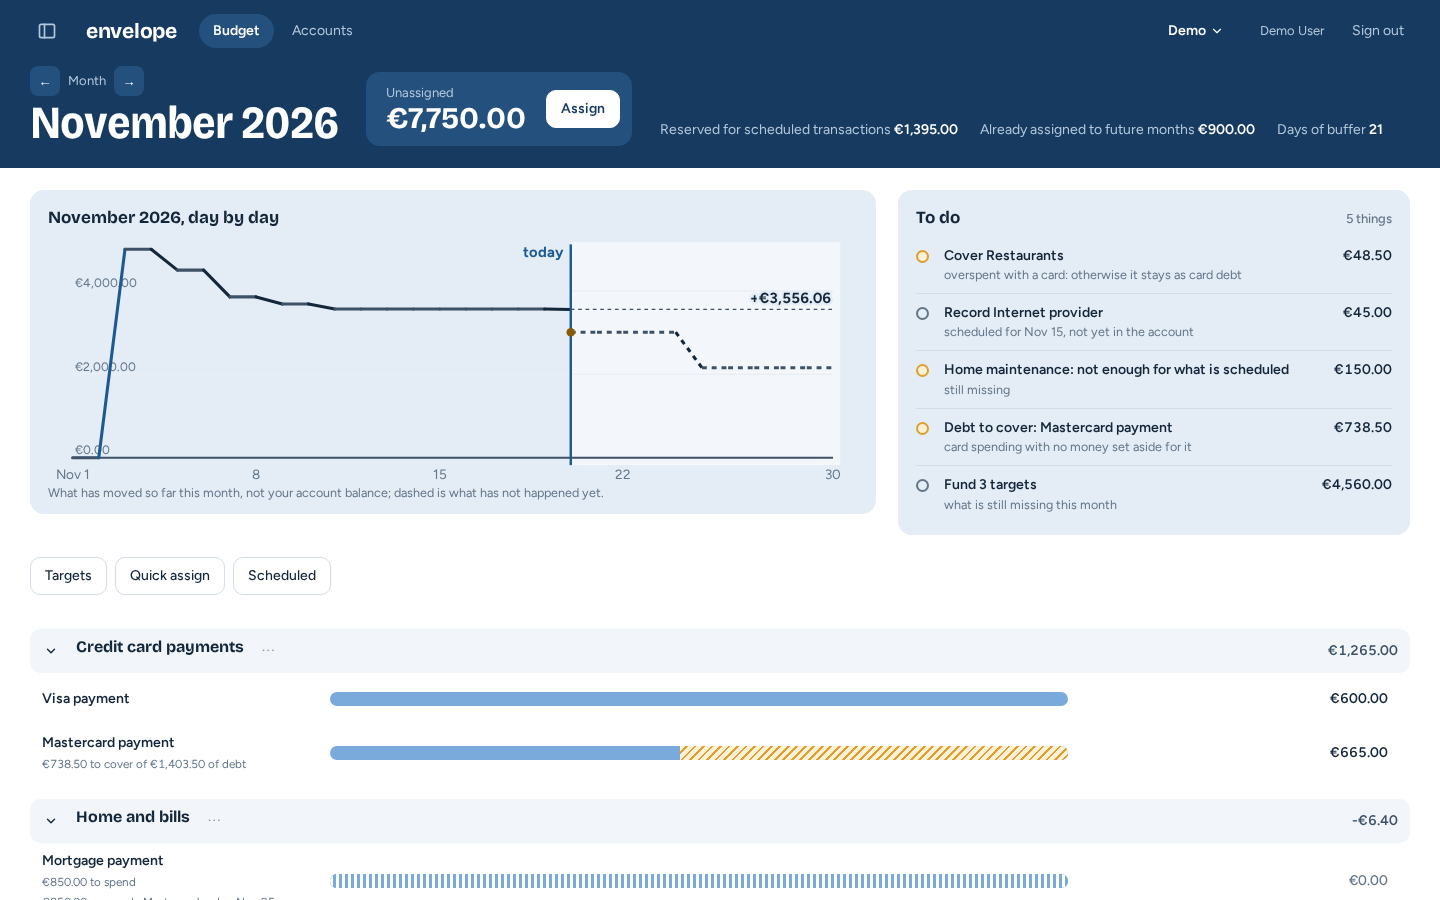
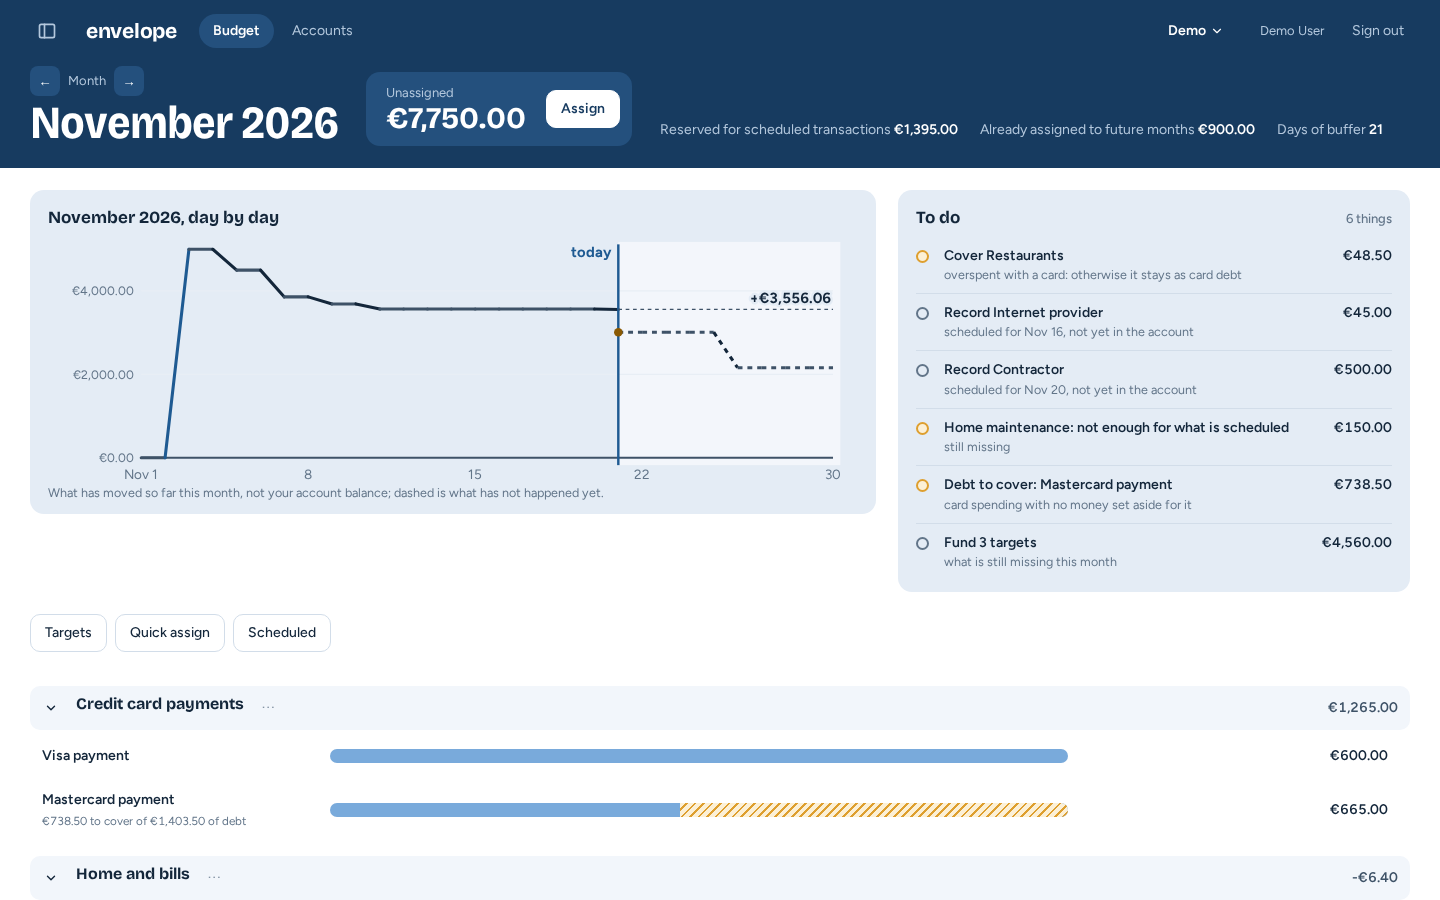
fix(web): keep the trend line's value labels clear of the plot
The running-total timeline drew its amount labels inside the plot, at
its left edge, so the line, the gridlines and the "future" ground ran
over them. computeTimeline now reserves a gutter left of the plot in
full mode and reports where the labels end (valueLabelX); the labels
sit there, right-aligned and centred on their gridlines. Compact mode,
which has no labels, keeps its layout. Refreshes the budget month,
account register, accounts panel and split screenshots in both themes.

Refs #591

diff --git a/packages/core/src/presentation/timeline.ts b/packages/core/src/presentation/timeline.ts
@@ -85,6 +85,13 @@ export interface TimelineLayout {
   readonly dayTicks: readonly TimelineDayTick[];
   /** A handful of round money amounts spanning the month's own range, each at its own height — the chart's own vertical scale, there was previously no reference at all for what a given height on the line actually means in money (`#405`). Full (non-compact) mode only, the same restraint `monthAbbrev` already follows. */
   readonly valueTicks: readonly TimelineValueTick[];
+  /**
+   * Where the `valueTicks` labels end (they are right-aligned to it): inside a gutter reserved
+   * on the left of the plot, so the running total, the gridlines and the "future" ground never
+   * run over them (`#591`). Always left of `axisX0`. Full mode only, like `valueTicks`; in compact
+   * mode, which has no labels and no gutter, it is `axisX0` itself.
+   */
+  readonly valueLabelX: number;
   readonly segments: readonly TimelineSegment[];
   /** Present only when `today` is given. */
   readonly current: TimelineCurrent | undefined;
@@ -115,12 +122,18 @@ interface Size {
   readonly width: number;
   readonly height: number;
   readonly inset: number;
+  /** The left edge of the plot: wider than `inset` in full mode, to leave a gutter for the `valueTicks` labels (`#591`). */
+  readonly insetLeft: number;
+  /** The gap between a value label's right edge and the plot (full mode only). */
+  readonly labelGap: number;
   readonly padTop: number;
   readonly padBottom: number;
 }
 
-const FULL: Size = { width: 660, height: 200, inset: 20, padTop: 10, padBottom: 20 };
-const COMPACT: Size = { width: 330, height: 120, inset: 12, padTop: 8, padBottom: 16 };
+// The full-mode gutter (76 units, labels ending 6 units short of the plot) fits a 10px label of
+// about twelve characters ("-€120,000.00"), the widest a month's own round amounts usually get.
+const FULL: Size = { width: 660, height: 200, inset: 20, insetLeft: 76, labelGap: 6, padTop: 10, padBottom: 20 };
+const COMPACT: Size = { width: 330, height: 120, inset: 12, insetLeft: 12, labelGap: 0, padTop: 8, padBottom: 16 };
 
 /** Weekly-ish ticks (1, 8, 15, 22...), always ending on the month's own last day. */
 function dayTicks(daysInMonth: number, compact: boolean): readonly number[] {
@@ -148,7 +161,7 @@ function stepDirection(before: number, after: number): TimelineStepDirection {
  */
 export function computeTimeline(input: TimelineInput): TimelineLayout {
   const size = input.compact ? COMPACT : FULL;
-  const x0 = size.inset;
+  const x0 = size.insetLeft;
   const x1 = size.width - size.inset;
   const span = Math.max(1, input.daysInMonth - 1);
   const x = (day: number): number => x0 + ((day - 1) * (x1 - x0)) / span;
@@ -249,6 +262,7 @@ export function computeTimeline(input: TimelineInput): TimelineLayout {
     todayX,
     dayTicks: dayTicks(input.daysInMonth, input.compact ?? false).map((day) => ({ day, x: x(day) })),
     valueTicks,
+    valueLabelX: x0 - size.labelGap,
     segments,
     current,
   };

diff --git a/apps/web/src/budget/Timeline.test.tsx b/apps/web/src/budget/Timeline.test.tsx
@@ -119,6 +119,35 @@ describe("Timeline (#326, redesigned #390)", () => {
     expect(document.querySelectorAll(".t-grid").length).toBe(layout.valueTicks.length - 1);
   });
 
+  it("keeps the value labels in a gutter left of the plot, clear of the line, gridlines and future ground (#591)", () => {
+    const layout = computeTimeline({
+      daysInMonth: 30,
+      today: 12,
+      events: [
+        { day: 1, amountCents: 400_000, direction: "in", status: "recorded" },
+        { day: 3, amountCents: 150_000, direction: "out", status: "recorded" },
+        { day: 20, amountCents: 90_000, direction: "out", status: "scheduled" },
+      ],
+    });
+    renderWithIntl(<Timeline layout={layout} monthLabel="September 2026" monthAbbrev="Sep" money={money} />);
+
+    const num = (el: Element, name: string): number => Number(el.getAttribute(name));
+    const labels = [...document.querySelectorAll(".t-grid-l")];
+    expect(labels.length).toBe(layout.valueTicks.length);
+    // Everything drawn in the plot starts at or right of the plot's own left edge...
+    const plotLeft = Math.min(
+      ...[...document.querySelectorAll(".t-grid, .t-axis, .t-line, .t-cur")].flatMap((el) => [num(el, "x1"), num(el, "x2")]),
+      ...[...document.querySelectorAll(".t-future")].map((el) => num(el, "x")),
+    );
+    expect(plotLeft).toBe(layout.axisX0);
+    // ...and every label ends, right-aligned, before it.
+    for (const label of labels) {
+      expect(label.getAttribute("text-anchor")).toBe("end");
+      expect(num(label, "x")).toBeLessThan(plotLeft);
+      expect(num(label, "x")).toBeGreaterThanOrEqual(70);
+    }
+  });
+
   it("drops the vertical scale's own reference lines in compact mode", () => {
     const layout = computeTimeline({
       daysInMonth: 30,

diff --git a/packages/core/src/presentation/timeline.test.ts b/packages/core/src/presentation/timeline.test.ts
@@ -135,6 +135,18 @@ describe("computeTimeline", () => {
     assert.equal(last.to.x, layout.axisX1);
   });
 
+  it("reserves a gutter left of the plot for the value labels in full mode, none in compact mode (#591)", () => {
+    const full = computeTimeline({ daysInMonth: 30, today: 12, events: [event({ day: 5 })] });
+    assert.ok(full.valueLabelX < full.axisX0);
+    assert.ok(full.valueLabelX >= 70, "room for a label of about twelve characters at 10px");
+    for (const segment of full.segments) assert.ok(segment.from.x >= full.axisX0);
+    assert.ok(full.todayX! > full.valueLabelX);
+
+    const compact = computeTimeline({ daysInMonth: 30, today: 12, events: [event({ day: 5 })], compact: true });
+    assert.equal(compact.valueLabelX, compact.axisX0);
+    assert.equal(compact.axisX0, 12);
+  });
+
   it("zero sits wherever it falls in the month's own value range, not always the canvas's own center", () => {
     const allNegative = computeTimeline({ daysInMonth: 30, today: undefined, events: [event({ day: 15, direction: "out" })] });
     const allPositive = computeTimeline({ daysInMonth: 30, today: undefined, events: [event({ day: 15, direction: "in" })] });

diff --git a/apps/web/src/budget/Timeline.tsx b/apps/web/src/budget/Timeline.tsx
@@ -54,7 +54,8 @@ export default function Timeline({ layout, monthLabel, monthAbbrev, money, compa
               {Math.abs(tick.y - layout.zeroY) > 0.5 && (
                 <line x1={layout.axisX0} y1={tick.y} x2={layout.axisX1} y2={tick.y} className="t-grid" />
               )}
-              <text x={layout.axisX0 + 2} y={tick.y - 3} textAnchor="start" className="t-grid-l">
+              {/* In the gutter left of the plot, right-aligned and centred on its own gridline, so the line never crosses it (#591). */}
+              <text x={layout.valueLabelX} y={tick.y + 3.5} textAnchor="end" className="t-grid-l">
                 {money(tick.amountCents)}
               </text>
             </g>

diff --git a/docs/design.md b/docs/design.md
@@ -520,7 +520,7 @@ Both themes follow the operating system setting and can be forced in the user's 
 ### Budget month on the desktop
 
 - **Band:** the mariner band across the top replaces the sidebar. First line: a button that opens the accounts panel (`#412`), the wordmark, navigation (Budget, Accounts, Portfolio) as rounded tabs, the workspace switcher and the user menu. Second line: the month with previous and next arrows, the "unassigned" box with its Assign button (its amount turns red when negative), and on the right money reserved for scheduled transactions, money already assigned to future months and days of buffer. Accounts and their balances live on the Accounts screen by default, not on every screen — the accounts panel is a dismissible detour from wherever you already are, not a second place they always show: closed by default, taking no layout space until opened, deliberately not the persistent sidebar `#323` removed. It opens on the left, over whichever screen is already showing, with the workspace's net worth at its head (every on-budget and off-budget account, cards included), then on-budget accounts, credit cards and off-budget accounts each in their own group; a row switches the main content straight to that account's own register without leaving the panel; a link at its foot goes to the full Accounts screen.
-- **Timeline:** "September, day by day", a running total of the month's days, starting at zero on day 1 and moving with each day's own net amount — not a judgement colour: a day that moved the total up or down is `pen`/`ink`, the same tokens already used for income and ordinary text, never `red`/`amber`, which stay reserved for a real problem. The account register shows the same timeline for one account, with transfers counted the same way. Recorded movements build the solid, actual part of the line, up to today; scheduled ones extend it, dashed, to the end of the month — an overdue one folds into today's own point instead of its own earlier day, with a small amber marker, rather than moving the solid line itself. Days after today sit on a lighter ground behind a "today" line. A dashed reference line at today's own height, with its amount, calls out the current value — what has moved so far this month, not the account's real balance, the one thing a multi-account budget month has no single one of. A handful of light gridlines mark a few round amounts along the vertical scale, so a given height on the line reads as an actual amount, not just a shape; the first tick (day 1) also names the month ("Sep 1"), so the axis does not rely only on the heading above it. Both are full-width mode only — the phone's own small timeline keeps just the running line and "today".
+- **Timeline:** "September, day by day", a running total of the month's days, starting at zero on day 1 and moving with each day's own net amount — not a judgement colour: a day that moved the total up or down is `pen`/`ink`, the same tokens already used for income and ordinary text, never `red`/`amber`, which stay reserved for a real problem. The account register shows the same timeline for one account, with transfers counted the same way. Recorded movements build the solid, actual part of the line, up to today; scheduled ones extend it, dashed, to the end of the month — an overdue one folds into today's own point instead of its own earlier day, with a small amber marker, rather than moving the solid line itself. Days after today sit on a lighter ground behind a "today" line. A dashed reference line at today's own height, with its amount, calls out the current value — what has moved so far this month, not the account's real balance, the one thing a multi-account budget month has no single one of. A handful of light gridlines mark a few round amounts along the vertical scale, so a given height on the line reads as an actual amount, not just a shape; their amounts sit in a gutter left of the plot, so the line never runs over them; the first tick (day 1) also names the month ("Sep 1"), so the axis does not rely only on the heading above it. Both are full-width mode only — the phone's own small timeline keeps just the running line and "today".
 - **To do:** next to the timeline, a list of what needs attention, each with its amount and one action: overspent categories ("Cover Groceries", red dot for cash, amber for card), scheduled transactions to record ("Record"), reservations a category cannot cover, cards' uncovered debt and, as one line, the targets still missing money ("Fund"). Opening an item opens its category in its row. It replaces the old one-line notices; an empty list says there is nothing to fix this month.
 - **Toolbar:** above the bars, filter tabs with a count badge each: All, Underfunded (amber: missing target money, reservations not covered, uncovered card debt), Overspent (red), With money; a zero count is shown outlined. Buttons: Summary, Targets, Scheduled, Quick assign, Move money, Undo (reverses the last assignment action, see below). After every assignment, move, recording or skip, a one-line confirmation says what happened, with "Undo" when it was an assignment.
 - **Bars:** one per category, grouped. A group row (tinted, rounded) has a chevron that collapses it, a name that opens the group's summary in the side sheet, a red badge with the number of overspent categories it holds, and the group's available amount. A category row has three parts. Its name, with a muted line of what was spent of what it was given ("€642.15 spent of €600.00", "€350.00 to spend") and up to one more status line: the target meter ("€35.00 still needed this month", "target reached", "on track, €42.86 a month"), the clock line of a reservation ("€90.00 reserved · Boiler service, 29 Sep", "to record" when overdue, "€8.96 missing" in amber), or on a card's payment category the debt meter ("€48.50 to cover of €642.30 of debt"). The bar: its track (82 % of the width) is carried over plus assigned; inside it, spent (`spent`), reserved (stripes) and still available (`bar`); past its end, at most 18 % more, cash overspending (solid red), card overspending (amber hatching) or a reservation beyond what is left (dashed amber outline). A card's payment category draws its debt instead: covered in `bar`, uncovered hatched. And the available amount, in the same cells as before (red block, hatched "card", dashed "reserved"). A legend under the bars names the five fills. Available is net of reservations.

diff --git a/CHANGELOG.md b/CHANGELOG.md
@@ -33,6 +33,7 @@ Each entry groups changes under **Added**, **Changed**, **Fixed** and **Removed*
 
 ### Fixed
 
+- `apps/web`, `@envelope/core`: the running-total timeline (budget month, account register, accounts panel) drew its line, gridlines and "future" ground over its own amount labels on the vertical scale (`#591`). The labels now sit in a gutter reserved left of the plot, right-aligned and centred on their gridlines (`computeTimeline` gains `valueLabelX`; full mode only, the phone's compact timeline has no labels). The screenshots that show the chart are refreshed in both themes.
 - `apps/api`: editing the on-budget leg of a transfer to or from an off-budget account (`PATCH /workspaces/:workspaceId/accounts/:accountId/transactions/:transactionId`) accepted a new split with no category, and from then on every budget-month read of the workspace failed with 400 `uncategorized_transaction` (`#552`). The edit is now refused with 400 `uncategorized_transaction`, the same answer as creating such a transfer without a category, and nothing is written. A category sent on any other transfer leg (both accounts on-budget, both off-budget, or the off-budget leg) is ignored and the leg stays categoryless, as when the transfer is created. A split's category is not a sync field, so a synced change cannot clear it either.
 - `apps/api`, `apps/web`: income (a transaction with no category) on an on-budget credit card was accepted, and from then on every budget-month read of the workspace failed with 400 `unsupported_transaction` (`#548`). Until income on a card is supported, the API refuses it with 400 `card_income_not_supported` when a transaction is created or edited, an import row is confirmed (the row is rejected with that code and stays staged), a scheduled transaction is defined, edited or recorded, or a reconciliation adjustment is written; the automatic firing of scheduled transactions leaves such a one due and fires the others. A merchant refund credited to the card with a category, a card payment and income on an off-budget card stay allowed. The transaction form and the reconciliation screen say why in the user's language. `scripts/dev/find-card-income.sql` lists any such row stored earlier; `apps/api/README.md` explains how to fix one by hand.
 - `apps/api`: editing the amount of one leg of a transfer (`PATCH /workspaces/:workspaceId/accounts/:accountId/transactions/:transactionId` with new `splits`) changed that leg only, so money appeared in or vanished from the accounts while the budget stayed the same, and the budget no longer matched the money in the on-budget accounts. The other leg now gets the opposite amount in the same database transaction; it keeps its own split, with its category when it has one (the on-budget leg of a transfer to or from an off-budget account), and its own payee and memo; if it was cleared it goes back to pending, as a trade's cash leg does, since it no longer matches the statement. A transfer leg holds exactly one split: more than one is refused with 400 `unsupported_transaction`, and so is an edit when the other leg already has several. An edit that would make a leg's amount zero or reverse the transfer's direction is refused with 400 `invalid_amount`; to change the direction, delete the transfer and create it again. The edit is refused with 409 when the other leg is reconciled, as deleting a transfer already is. A trade's cash leg still refuses a change to its amount (`trade_owned_transaction`), and a synced change to an amount is still `unsupported_field` (`#547`).
